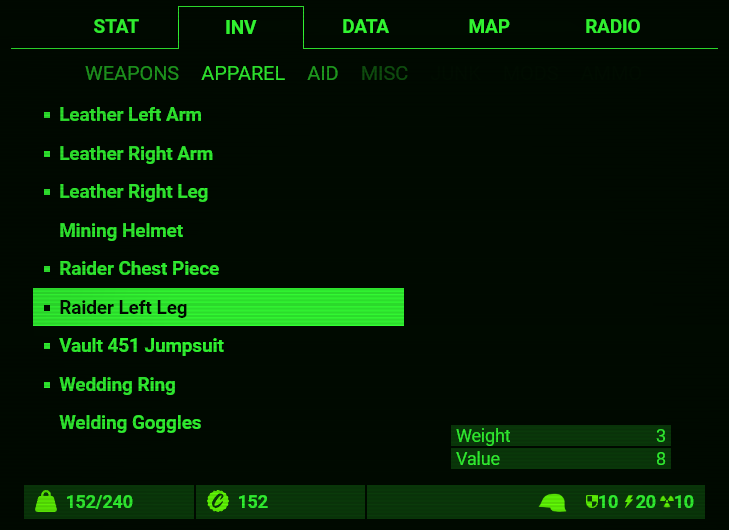
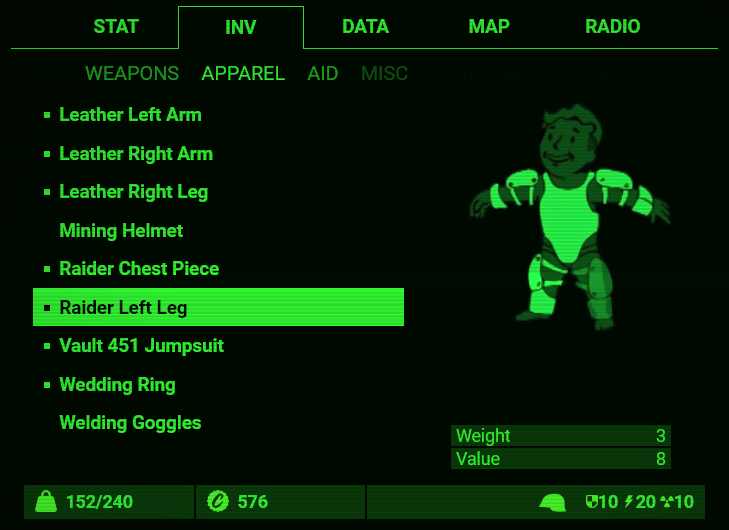
feat: Add new apparel images and add apparel images display logic

diff --git a/itemLists.js b/itemLists.js
@@ -78,6 +78,11 @@ export function initializeItemList(nickName, tabPlusSubCategory) {
     .then(() => {
       if (subCategory !== 'special') {
         populateInventory(tabPlusSubCategory);
+        if (subCategory === 'apparel') {
+          try {
+            updateApparelDisplay();
+          } catch (e) { console.warn('Failed to update apparel display on init:', e); }
+        }
       } else {
         updateSpecialAttributes();
       }
@@ -86,6 +91,49 @@ export function initializeItemList(nickName, tabPlusSubCategory) {
     .catch(error => {
       console.error('Error initializing item list:', error);
     });
+}
+
+export function updateApparelDisplay(){
+  const apparelBg = document.getElementById('apparel-background');
+  const apparelSlots = {
+    head: document.getElementById('apparel-head'),
+    eyes: document.getElementById('apparel-eyes'),
+    torso: document.getElementById('apparel-torso'),
+    left_arm: document.getElementById('apparel-left_arm'),
+    right_arm: document.getElementById('apparel-right_arm'),
+    left_leg: document.getElementById('apparel-left_leg'),
+    right_leg: document.getElementById('apparel-right_leg'),
+  };
+
+  if (!apparelBg) return;
+
+  Object.keys(apparelSlots).forEach(k => {
+    const el = apparelSlots[k];
+    if (el) {
+      el.style.display = 'none';
+      if (el.dataset && el.dataset.prevDisplay !== undefined) delete el.dataset.prevDisplay;
+      el.classList.remove('slow-blink');
+    }
+  });
+
+  const profileApparel = profileItems.inv && profileItems.inv.apparel ? profileItems.inv.apparel : null;
+  if (!profileApparel) return;
+
+  for (let type in profileApparel) {
+    for (let id in profileApparel[type]) {
+      const entry = profileApparel[type][id];
+      if (entry && (entry.equipped === true || entry.equipped === 'true')) {
+        const itemDef = itemsData.inv && itemsData.inv.apparel && itemsData.inv.apparel[type] && itemsData.inv.apparel[type][id] ? itemsData.inv.apparel[type][id] : null;
+        if (itemDef && itemDef.slots) {
+          for (let slotKey in itemDef.slots) {
+            const slotName = itemDef.slots[slotKey];
+            const slotEl = apparelSlots[slotName];
+            if (slotEl) slotEl.style.display = 'block';
+          }
+        }
+      }
+    }
+  }
 }
 
 function populateInventory(tabPlusSubCategory) {
@@ -219,6 +267,7 @@ export function setItemActive(selectedItem) {
     console.error('No item selected to set as active.');
     return;
   }
+  try { clearApparelBlink(); } catch(e) {}
 
   if (selectedItem.parentElement.id === 'radio-list') {
     selectedItem.classList.forEach(currentClass => {
@@ -278,6 +327,22 @@ function setEquippedState(selectedItem, state) {
   updateRadio(selectedItem);
 }
 
+function clearApparelBlink() {
+  const apparelSlots = [
+    'apparel-head','apparel-eyes','apparel-torso','apparel-left_arm','apparel-right_arm','apparel-left_leg','apparel-right_leg'
+  ];
+  apparelSlots.forEach(id => {
+    const el = document.getElementById(id);
+    if (!el) return;
+    if (el.dataset && el.dataset.prevDisplay !== undefined) {
+      el.style.display = el.dataset.prevDisplay;
+      delete el.dataset.prevDisplay;
+    } else {
+    }
+    el.classList.remove('slow-blink');
+  });
+}
+
 function scrollIntoViewIfNeeded(element) {
   const listContainer = document.getElementsByClassName('itemList');
 
@@ -304,6 +369,16 @@ function updateItemDetails(itemId, itemType) {
   const perkDesc = document.getElementById('perk-description');
   const questDesc = document.getElementById('quest-description');
   const questObjectives = document.getElementById('quest-objectives');
+  const apparelBg = document.getElementById('apparel-background');
+  const apparelSlots = {
+    head: document.getElementById('apparel-head'),
+    eyes: document.getElementById('apparel-eyes'),
+    torso: document.getElementById('apparel-torso'),
+    left_arm: document.getElementById('apparel-left_arm'),
+    right_arm: document.getElementById('apparel-right_arm'),
+    left_leg: document.getElementById('apparel-left_leg'),
+    right_leg: document.getElementById('apparel-right_leg'),
+  };
 
   //if (!detailsTable && !attrDesc) return;
   if (detailsTable) {
@@ -348,6 +423,23 @@ function updateItemDetails(itemId, itemType) {
 
       detailsTable.innerHTML = detailsHTML;
 
+      if (apparelBg) {
+        if (itemData.slots) {
+          for (let slot in itemData.slots) {
+            const slotName = itemData.slots[slot];
+            const slotEl = apparelSlots[slotName];
+            if (!slotEl) continue;
+            try {
+              if (slotEl.dataset && slotEl.dataset.prevDisplay === undefined) {
+                slotEl.dataset.prevDisplay = slotEl.style.display || window.getComputedStyle(slotEl).display || 'none';
+              }
+            } catch(e) {}
+            slotEl.style.display = 'block';
+            slotEl.classList.add('slow-blink');
+          }
+        }
+      }
+
       // Check for components if item is junk
       if (category === 'inv' && subCategory === 'junk' && itemData.components) {
         let componentsHTML = '';
@@ -357,7 +449,6 @@ function updateItemDetails(itemId, itemType) {
         junkComponents.innerHTML = componentsHTML;
       }
       if (weaponImage) {
-        console.log(itemData)
         weaponImage.src = itemData.image;
       }
     } else {

diff --git a/style.css b/style.css
@@ -4,6 +4,16 @@
   cursor: var(--cursor);
 }
 
+.slow-blink {
+  animation: slow-blink 1s ease-in-out infinite;
+  will-change: opacity;
+}
+
+@keyframes slow-blink {
+  0%, 100% { opacity: 1; }
+  50%      { opacity: 0; }
+}
+
 body {
   background-color: var(--darkText);
   margin: 0;
@@ -61,7 +71,7 @@ body {
   border-bottom: none;
 }
 
-#vault-boy {
+#vault-boy, .apparel-img {
   filter: hue-rotate(var(--hue)) saturate(var(--sat)) brightness(var(--brightness));
 }
 
@@ -659,3 +669,46 @@ td.status-overview-separator {
 }
 
 .limbBar { position: relative; }
+
+/*---*/
+
+.apparel-image-container {
+  position: relative;
+  height: 200px;
+  text-align: center;
+}
+.apparel-image-container > img {
+  position: fixed;
+  right: 120px;
+}
+#apparel-background {
+  z-index: 10;
+}
+#apparel-left_leg {
+  display: none;
+  z-index: 11;
+}
+#apparel-right_leg {
+  display: none;
+  z-index: 12;
+}
+#apparel-torso {
+  display: none;
+  z-index: 13;
+}
+#apparel-left_arm {
+  display: none;
+  z-index: 14;
+}
+#apparel-right_arm {
+  display: none;
+  z-index: 15;
+}
+#apparel-eyes {
+  display: none;
+  z-index: 16;
+}
+#apparel-head {
+  display: none;
+  z-index: 17;
+}

diff --git a/tabs/inv/apparel.html b/tabs/inv/apparel.html
@@ -5,8 +5,15 @@
         </div>
     </div>
     <div class="inv-right-half list-half">
-        <div>
-            <!-- Something here in the future -->
+        <div class="apparel-image-container">
+            <img src="images/inventory/armor/background.png" id="apparel-background" class="apparel-img">
+            <img src="images/inventory/armor/left_leg.png" id="apparel-left_leg" class="apparel-img">
+            <img src="images/inventory/armor/right_leg.png" id="apparel-right_leg" class="apparel-img">
+            <img src="images/inventory/armor/torso.png" id="apparel-torso" class="apparel-img">
+            <img src="images/inventory/armor/left_arm.png" id="apparel-left_arm" class="apparel-img">
+            <img src="images/inventory/armor/right_arm.png" id="apparel-right_arm" class="apparel-img">
+            <img src="images/inventory/armor/eyes.png" id="apparel-eyes" class="apparel-img">
+            <img src="images/inventory/armor/head.png" id="apparel-head" class="apparel-img">
         </div>
         <div>
             <table id="details-table" category="inv/apparel">

diff --git a/tabs/stat/status.html b/tabs/stat/status.html
@@ -44,7 +44,7 @@
     <div>
         <table class="status-overview-table">
             <tr>
-                <td class="status-overview-image"><img src="images/inventory/weapons/10mm_pistol.png" height="30" class="black-icon"></td>
+                <td class="status-overview-image"><img src="images/icons/gun.svg" height="30" class="black-icon"></td>
                 <td class="status-overview-symbol-and-value"><img src="images/icons/crosshair.png" height="15" class="black-icon"><br>18</td>
                 <td class="status-overview-separator"></td>
                 <td class="status-overview-image"><img src="images/icons/helmet.png" height="45" class="black-icon"></td>
